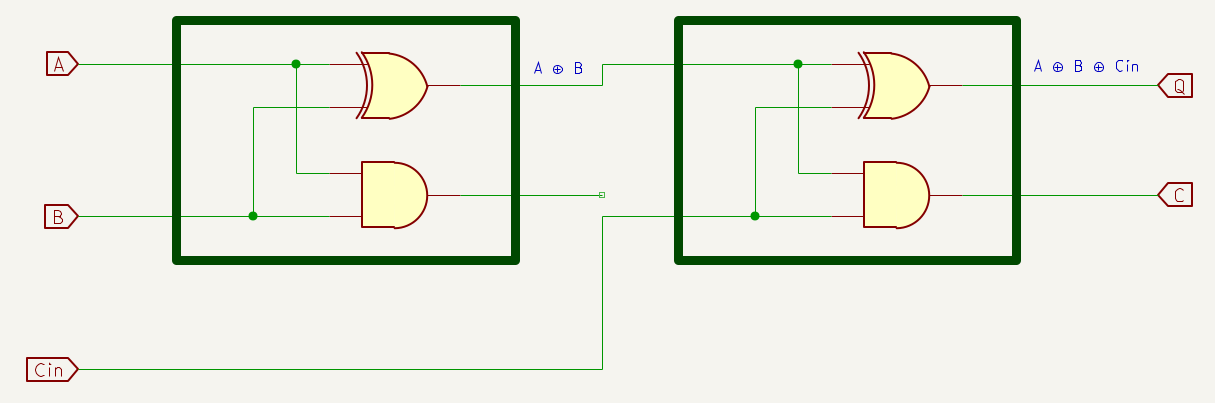
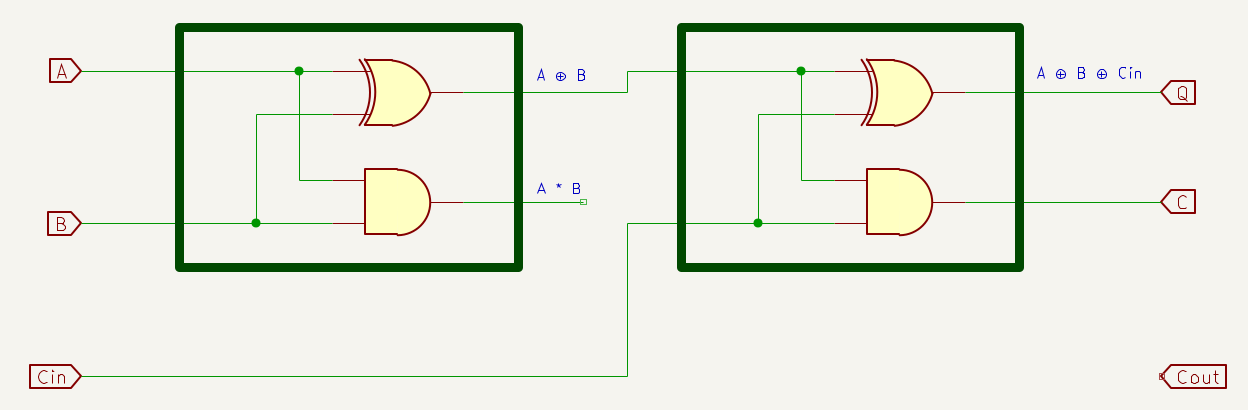
update adder

Changed region(s): [[0.0305, 0.0298, 0.9745, 0.6849], [0.0, 0.8635, 0.5177, 0.9529], [0.9136, 0.8635, 1.0, 0.9529]]

diff --git a/docs/_docs/97-bin-math.md b/docs/_docs/97-bin-math.md
@@ -584,39 +584,37 @@ C                               1
 A           0+     0+     1+     1+
 B           0=     1=     0=     1=
           ----   ----   ----   ----
-Q           0      1      1     10 
+Q           0      1      1      0 
 ~~~
 
-Nella quarta colonna notiamo che per mostrare il risultato della somma di due bit entrambi a 1 sono necessarie due posizioni, in quanto vi è un riporto.
+Nella quarta ipotesi notiamo che il risultato della somma di due bit entrambi a 1 genera un riporto, cioè un Carry. Scrivendo la truth table, nella quale C<sub>OUT</sub> identifica il Carry generato dalla somma dei bit A e B, otteniamo:
 
-Scrivendo la truth table, abbiamo:
+| A | B | **Q** | C<sub>OUT</sub> |
+| - | - | -     | -               |
+| 0 | 0 | 0     | 0               |
+| 0 | 1 | 1     | 0               |
+| 1 | 0 | 1     | 0               |
+| 1 | 1 | 0     | 1               |
 
-| A | B | **Q** | C |
-| - | - | - | - |
-| 0 | 0 | 0 | 0 |
-| 0 | 1 | 1 | 0 |
-| 1 | 0 | 1 | 0 |
-| 1 | 1 | 0 | 1 |
-
-Il risultato Q della somma dei due bit A e B si può ottenere con una porta logica XOR, mentre il Carry C è chiaramente ottenibile con una porta AND. Ecco come si potrebbe costruire il circuito equivalente:
+Il risultato Q della somma dei due bit A e B si può ottenere con una porta logica XOR, mentre il Carry C<sub>OUT</sub> è chiaramente ottenibile con una porta AND. Ecco come si potrebbe costruire il circuito equivalente:
 
 ![Adder](../../assets/math/half-adder.png){:width="50%"}
 
 Quando attivo, il Carry evidenzia una situazione di overflow (non nel senso spiegato prima), cioè di risultato che "non ci sta".
 
-Ipotizziamo ora di dover effettuare una somma a più bit, ad esempio di due nibble (4 bit):
+Ipotizziamo ora di dover effettuare una somma a più bit, ad esempio di due nibble (4 bit) o di due byte:
 
 ~~~text
-C         1 11
-A          1011+
-B          1001=
-          ------
-Q         10100   
+C       1 11           1  1
+A        1011+        10110011+
+B        1001=        00101010=
+        ------       ----------
+Q       10100         11011101
 ~~~
 
 Si nota che per svolgere l'intera operazione sono necessari 3 valori in input: A, B e il Carry eventualmente derivante dalla precedente colonna.
 
-Scrivendo la truth table per sommare i tre bit, chiameremo C<sub>IN</sub> il carry derivante dalla precedente colonna e, similarmente, chiameremo C<sub>OUT</sub> il carry risultante dalla somma di A, B e C<sub>IN</sub>:
+Scrivendo la truth table per sommare i tre bit di ogni colonna chiameremo C<sub>IN</sub> il carry derivante dalla precedente colonna e, similarmente, chiameremo C<sub>OUT</sub> il carry risultante dalla somma di ogni tripletta di A, B e C<sub>IN</sub>:
 
 | A | B | C<sub>IN</sub> | Q | C<sub>OUT</sub> |
 | - | - | -              | - | -               |
@@ -645,11 +643,11 @@ C<sub>OUT</sub> produce invece (C corrisponde a C<sub>IN</sub>):
 
 F = C<sub>IN</sub>\*(A+B) + A*B
 
-Avendo a disposizione l'adder di due bit visto in precedenza, è possibile riutilizzarlo in scala per semplificare la costruzione di un adder che permetta di realizzare somme tra word in ingresso di lunghezza ad esempio di 4 bit, 8 bit e così via?
+Avendo a disposizione l'Adder a due bit visto in precedenza, è possibile riutilizzarlo in scala per semplificare la costruzione di un Adder che permetta di realizzare somme tra word in ingresso di lunghezza ad esempio di 4 bit, 8 bit e così via?
 
-L'adder mette a disposizione una porta XOR e una porta AND.
+L'Adder mette a disposizione una porta XOR e una porta AND.
 
-Abbiamo detto che per realizzare la somma Q è necessaria una porta XOR a tre ingressi, ma è dimostrabile che due porte XOR a due ingressi in cascata realizzano lo stesso risultato. Ipotizzando di avere due adder, posso ottenere il risultato Q sfruttando le XOR disponibili:
+Abbiamo detto che per realizzare la somma Q è necessaria una porta XOR a tre ingressi, ma è dimostrabile che due porte XOR a due ingressi in cascata realizzano lo stesso risultato. Ipotizzando di avere due Adder, posso ottenere il risultato Q sfruttando le XOR disponibili:
 
 ![Adder](../../assets/math/full-adder-1.png){:width="100%"}
 
